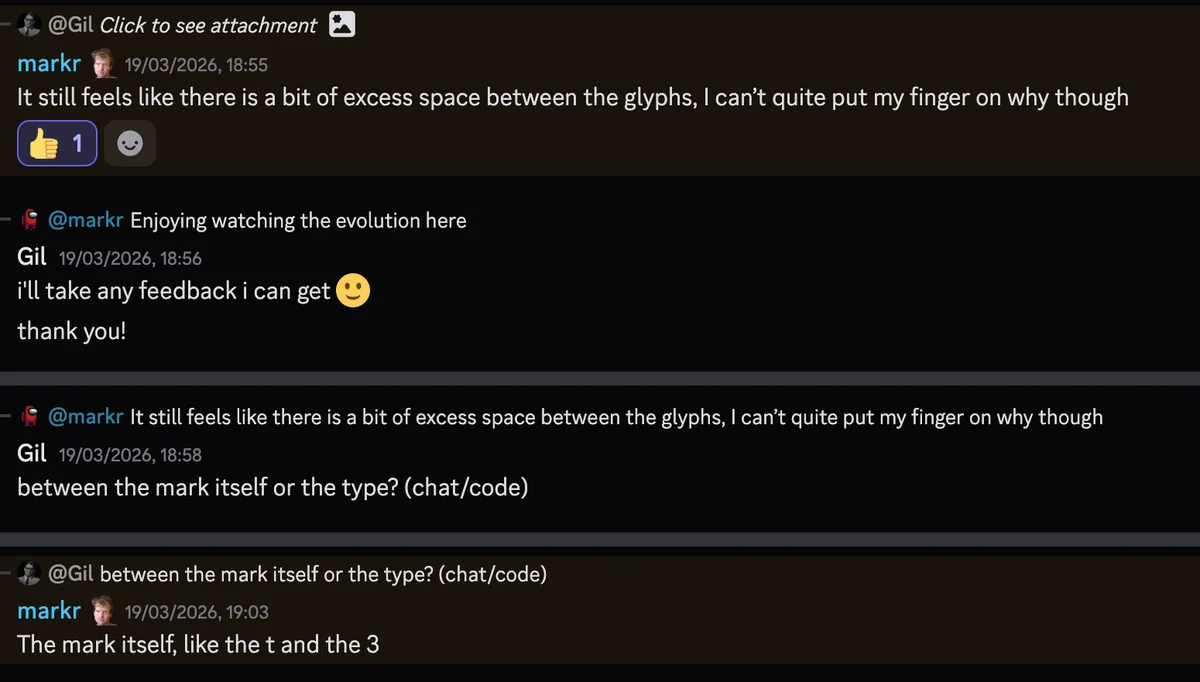
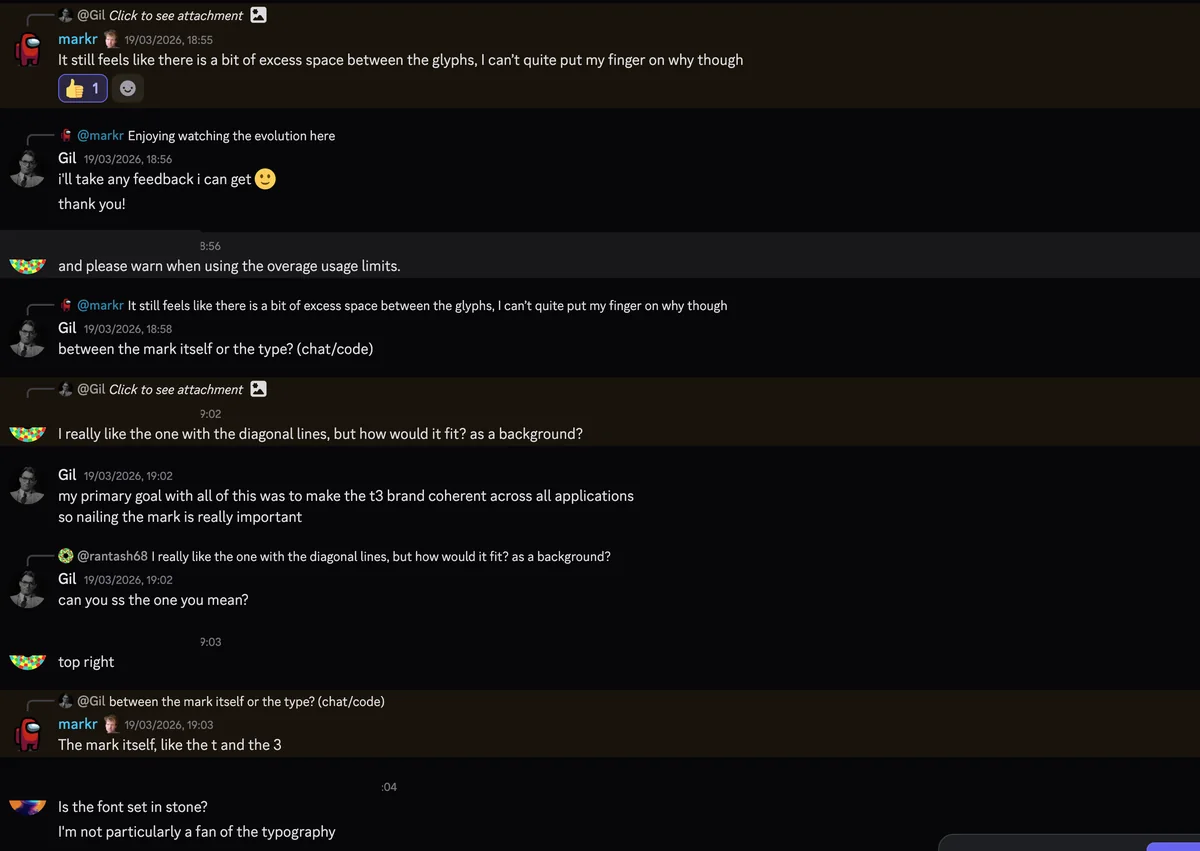
Chronicle T3 Discord feedback

Changed region(s): [[0.0, 0.2771, 1.0, 0.9853], [0.0, 0.0, 0.9558, 0.2463], [0.7708, 0.9545, 1.0, 1.0]]

diff --git a/all/index.html b/all/index.html
@@ -2191,7 +2191,7 @@ html.homepage-scroll-locked body .layout {
                                 <h1 class="case-title">A logomark system for T3</h1>
                             </header>
                                 <div class="case-copy">
-                                    <p>T3 ships more than one product, so the mark had to hold as <a class="external-link" href="https://t3.chat/" target="_blank" rel="noopener noreferrer"><code>T3.chat</code></a>, as <a class="external-link" href="https://t3.codes/" target="_blank" rel="noopener noreferrer"><code>T3.code</code></a>, and on its own in a favicon or an app grid. Nobody commissioned it. I drew it across several months and posted the versions as they came, first in the T3 Discord and then as a <a class="external-link" href="https://x.com/gilrdb/status/2080990301208952994" target="_blank" rel="noopener noreferrer">thread on X</a>. The community, <a class="external-link" href="https://x.com/r_marked" target="_blank" rel="noopener noreferrer">@r_marked</a>, and <a class="external-link" href="https://x.com/theo" target="_blank" rel="noopener noreferrer">@theo</a> told me which ones were working.</p>
+                                    <p>T3 ships more than one product, so the mark had to hold as <a class="external-link" href="https://t3.chat/" target="_blank" rel="noopener noreferrer"><code>T3.chat</code></a>, as <a class="external-link" href="https://t3.codes/" target="_blank" rel="noopener noreferrer"><code>T3.code</code></a>, and on its own in a favicon or an app grid. Nobody commissioned it. I drew it between March and May 2026 and posted the versions as they came, first in the T3 Discord and then as a <a class="external-link" href="https://x.com/gilrdb/status/2080990301208952994" target="_blank" rel="noopener noreferrer">thread on X</a>. The community, <a class="external-link" href="https://x.com/r_marked" target="_blank" rel="noopener noreferrer">@r_marked</a>, and <a class="external-link" href="https://x.com/theo" target="_blank" rel="noopener noreferrer">@theo</a> told me which ones were working.</p>
                                 </div>
                             <div class="case-media">
                             <figure>
@@ -2234,21 +2234,48 @@ html.homepage-scroll-locked body .layout {
                             </figure>
                             </div>
                                 <div class="case-copy">
-                                    <p>markr came back with the note that set up the next two weeks: &quot;It still feels like there is a bit of excess space between the glyphs, I can't quite put my finger on why though.&quot; I asked whether he meant the mark or the type. The mark, he said, the t and the 3.</p>
+                                    <p>markr came back with the note that set up the next two months: &quot;It still feels like there is a bit of excess space between the glyphs, I can't quite put my finger on why though.&quot; I asked whether he meant the mark or the type. The mark, he said, the t and the 3.</p>
                                 </div>
                             <div class="case-media">
                             <figure>
-                                <img alt="T3 Discord feedback on the spacing between the logomark glyphs" decoding="async" loading="lazy" height="682" sizes="(max-width: 768px) calc(100vw - 24px), (max-width: 1100px) calc(100vw - 336px), 760px" src="/images/optimized/gil-rodrigues-t3-feedback-spacing-720.webp" srcset="/images/optimized/gil-rodrigues-t3-feedback-spacing-480.webp 480w, /images/optimized/gil-rodrigues-t3-feedback-spacing-720.webp 720w, /images/optimized/gil-rodrigues-t3-feedback-spacing-960.webp 960w, /images/optimized/gil-rodrigues-t3-feedback-spacing-1200.webp 1200w" width="1200"/>
+                                <img alt="T3 Discord feedback on the spacing between the logomark glyphs" decoding="async" loading="lazy" height="851" sizes="(max-width: 768px) calc(100vw - 24px), (max-width: 1100px) calc(100vw - 336px), 760px" src="/images/optimized/gil-rodrigues-t3-feedback-spacing-720.webp" srcset="/images/optimized/gil-rodrigues-t3-feedback-spacing-480.webp 480w, /images/optimized/gil-rodrigues-t3-feedback-spacing-720.webp 720w, /images/optimized/gil-rodrigues-t3-feedback-spacing-960.webp 960w, /images/optimized/gil-rodrigues-t3-feedback-spacing-1200.webp 1200w" width="1200"/>
                                 <figcaption class="case-caption">Feedback on the spacing between the glyphs</figcaption>
                             </figure>
                             </div>
                                 <div class="case-copy">
-                                    <p>By 31 March I was posting frames nine at a time. Carl read the fourth and the last as Ws, which is what happens when the crossbar shears too far. markr relayed that Theo had not liked the angles in the old logo, so the direction that fixed the spacing was reopening a different problem. &quot;Mixed feedback on lots of them makes me go into all kinds of directions,&quot; I wrote back. markr's reply was &quot;design by committee&quot;.</p>
+                                    <p>A week later I brought the mark back heavier, on a brighter palette. markr: &quot;Feels very heavy now, which compared to the rest of the products, feels out of place. I do like the idea with the sloping 3 though to get rid of that bug dead space.&quot; Someone else said it reminded them of a racing car logo.</p>
                                 </div>
                             <div class="case-media">
                             <figure>
-                                <img alt="Nine T3 logo frames and the Discord replies they drew" decoding="async" loading="lazy" height="723" sizes="(max-width: 768px) calc(100vw - 24px), (max-width: 1100px) calc(100vw - 336px), 760px" src="/images/optimized/gil-rodrigues-t3-feedback-frames-720.webp" srcset="/images/optimized/gil-rodrigues-t3-feedback-frames-480.webp 480w, /images/optimized/gil-rodrigues-t3-feedback-frames-720.webp 720w, /images/optimized/gil-rodrigues-t3-feedback-frames-960.webp 960w, /images/optimized/gil-rodrigues-t3-feedback-frames-1200.webp 1200w" width="1200"/>
+                                <img alt="Repainted T3 board with feedback on its weight and direction" decoding="async" loading="lazy" height="815" sizes="(max-width: 768px) calc(100vw - 24px), (max-width: 1100px) calc(100vw - 336px), 760px" src="/images/optimized/gil-rodrigues-t3-feedback-repainted-720.webp" srcset="/images/optimized/gil-rodrigues-t3-feedback-repainted-480.webp 480w, /images/optimized/gil-rodrigues-t3-feedback-repainted-720.webp 720w, /images/optimized/gil-rodrigues-t3-feedback-repainted-960.webp 960w, /images/optimized/gil-rodrigues-t3-feedback-repainted-1200.webp 1200w" width="1200"/>
+                                <figcaption class="case-caption">The repainted board</figcaption>
+                            </figure>
+                            </div>
+                                <div class="case-copy">
+                                    <p>I posted a thinner version the same evening and asked whether that killed the racing car. It moved the problem instead of solving it: pushing the 3 away reintroduced the gap, and not connecting the two made the mark look heavily unproportional. markr relayed what Theo had said about the iteration — not sold on the weights, or on the shape of the 3.</p>
+                                </div>
+                            <div class="case-media">
+                            <figure>
+                                <img alt="Thinner T3 mark test and feedback on the direction" decoding="async" loading="lazy" height="382" sizes="(max-width: 768px) calc(100vw - 24px), (max-width: 1100px) calc(100vw - 336px), 760px" src="/images/optimized/gil-rodrigues-t3-feedback-thinner-720.webp" srcset="/images/optimized/gil-rodrigues-t3-feedback-thinner-480.webp 480w, /images/optimized/gil-rodrigues-t3-feedback-thinner-720.webp 720w, /images/optimized/gil-rodrigues-t3-feedback-thinner-960.webp 960w, /images/optimized/gil-rodrigues-t3-feedback-thinner-1200.webp 1200w" width="1200"/>
+                                <figcaption class="case-caption">The thinner test and the reply</figcaption>
+                            </figure>
+                            </div>
+                                <div class="case-copy">
+                                    <p>By 31 March I was posting frames nine at a time. One reply read the fourth and the last as Ws, which is what happens when the crossbar shears too far. markr thought the direction was closer to right, since Theo had not liked the angles in the old logo, so the fix for one problem kept reopening another. &quot;Mixed feedback on lots of them makes me go into all kinds of directions,&quot; I wrote. markr: &quot;design by committee&quot;.</p>
+                                </div>
+                            <div class="case-media">
+                            <figure>
+                                <img alt="Nine T3 logo frames and the Discord replies they drew" decoding="async" loading="lazy" height="1127" sizes="(max-width: 768px) calc(100vw - 24px), (max-width: 1100px) calc(100vw - 336px), 760px" src="/images/optimized/gil-rodrigues-t3-feedback-frames-720.webp" srcset="/images/optimized/gil-rodrigues-t3-feedback-frames-480.webp 480w, /images/optimized/gil-rodrigues-t3-feedback-frames-720.webp 720w, /images/optimized/gil-rodrigues-t3-feedback-frames-960.webp 960w, /images/optimized/gil-rodrigues-t3-feedback-frames-1200.webp 1200w" width="1200"/>
                                 <figcaption class="case-caption">Nine frames and the replies they drew</figcaption>
+                            </figure>
+                            </div>
+                                <div class="case-copy">
+                                    <p>On 5 May the angled 3 got its verdict, secondhand as usual: &quot;I also like the angled 3, but Theo didn't 😭&quot;</p>
+                                </div>
+                            <div class="case-media">
+                            <figure>
+                                <img alt="Angled T3 3 and the verdict on its direction" decoding="async" loading="lazy" height="48" sizes="(max-width: 768px) calc(100vw - 24px), (max-width: 1100px) calc(100vw - 336px), 760px" src="/images/optimized/gil-rodrigues-t3-feedback-angled-3-720.webp" srcset="/images/optimized/gil-rodrigues-t3-feedback-angled-3-480.webp 480w, /images/optimized/gil-rodrigues-t3-feedback-angled-3-720.webp 720w, /images/optimized/gil-rodrigues-t3-feedback-angled-3-960.webp 960w, /images/optimized/gil-rodrigues-t3-feedback-angled-3-1200.webp 1200w" width="1200"/>
+                                <figcaption class="case-caption">The angled 3, and the verdict on it</figcaption>
                             </figure>
                             </div>
                                 <div class="case-copy">
@@ -2286,6 +2313,15 @@ html.homepage-scroll-locked body .layout {
                             <figure>
                                 <img alt="T3 logomark before and after comparison showing the final refined joint and terminals" decoding="async" height="2520" loading="lazy" sizes="(max-width: 768px) calc(100vw - 24px), (max-width: 1100px) calc(100vw - 336px), 760px" src="/images/optimized/gil-rodrigues-t3-before-after-720.webp" srcset="/images/optimized/gil-rodrigues-t3-before-after-480.webp 480w, /images/optimized/gil-rodrigues-t3-before-after-720.webp 720w, /images/optimized/gil-rodrigues-t3-before-after-960.webp 960w, /images/optimized/gil-rodrigues-t3-before-after-1280.webp 1280w, /images/optimized/gil-rodrigues-t3-before-after-1600.webp 1600w" width="3446"/>
                                 <figcaption class="case-caption">Before and after refinement</figcaption>
+                            </figure>
+                            </div>
+                                <div class="case-copy">
+                                    <p>I posted the two curves side by side on 13 May, expecting nobody to see it. markr: &quot;I feel insane but those changes made a difference to my perception....&quot;</p>
+                                </div>
+                            <div class="case-media">
+                            <figure>
+                                <img alt="T3 curve comparison and feedback on the smoothed version" decoding="async" loading="lazy" height="1266" sizes="(max-width: 768px) calc(100vw - 24px), (max-width: 1100px) calc(100vw - 336px), 760px" src="/images/optimized/gil-rodrigues-t3-feedback-curves-720.webp" srcset="/images/optimized/gil-rodrigues-t3-feedback-curves-480.webp 480w, /images/optimized/gil-rodrigues-t3-feedback-curves-720.webp 720w, /images/optimized/gil-rodrigues-t3-feedback-curves-960.webp 960w, /images/optimized/gil-rodrigues-t3-feedback-curves-1200.webp 1200w" width="1200"/>
+                                <figcaption class="case-caption">The pinched curve against the smoothed one</figcaption>
                             </figure>
                             </div>
                                 <div class="case-copy">

diff --git a/t3/index.html b/t3/index.html
@@ -1480,7 +1480,7 @@ html.homepage-scroll-locked body .layout {
                             <h1 class="case-title">A logomark system for T3</h1>
                         </header>
                             <div class="case-copy">
-                                <p>T3 ships more than one product, so the mark had to hold as <a class="external-link" href="https://t3.chat/" target="_blank" rel="noopener noreferrer"><code>T3.chat</code></a>, as <a class="external-link" href="https://t3.codes/" target="_blank" rel="noopener noreferrer"><code>T3.code</code></a>, and on its own in a favicon or an app grid. Nobody commissioned it. I drew it across several months and posted the versions as they came, first in the T3 Discord and then as a <a class="external-link" href="https://x.com/gilrdb/status/2080990301208952994" target="_blank" rel="noopener noreferrer">thread on X</a>. The community, <a class="external-link" href="https://x.com/r_marked" target="_blank" rel="noopener noreferrer">@r_marked</a>, and <a class="external-link" href="https://x.com/theo" target="_blank" rel="noopener noreferrer">@theo</a> told me which ones were working.</p>
+                                <p>T3 ships more than one product, so the mark had to hold as <a class="external-link" href="https://t3.chat/" target="_blank" rel="noopener noreferrer"><code>T3.chat</code></a>, as <a class="external-link" href="https://t3.codes/" target="_blank" rel="noopener noreferrer"><code>T3.code</code></a>, and on its own in a favicon or an app grid. Nobody commissioned it. I drew it between March and May 2026 and posted the versions as they came, first in the T3 Discord and then as a <a class="external-link" href="https://x.com/gilrdb/status/2080990301208952994" target="_blank" rel="noopener noreferrer">thread on X</a>. The community, <a class="external-link" href="https://x.com/r_marked" target="_blank" rel="noopener noreferrer">@r_marked</a>, and <a class="external-link" href="https://x.com/theo" target="_blank" rel="noopener noreferrer">@theo</a> told me which ones were working.</p>
                             </div>
                         <div class="case-media">
                         <figure>
@@ -1523,21 +1523,48 @@ html.homepage-scroll-locked body .layout {
                         </figure>
                         </div>
                             <div class="case-copy">
-                                <p>markr came back with the note that set up the next two weeks: &quot;It still feels like there is a bit of excess space between the glyphs, I can't quite put my finger on why though.&quot; I asked whether he meant the mark or the type. The mark, he said, the t and the 3.</p>
+                                <p>markr came back with the note that set up the next two months: &quot;It still feels like there is a bit of excess space between the glyphs, I can't quite put my finger on why though.&quot; I asked whether he meant the mark or the type. The mark, he said, the t and the 3.</p>
                             </div>
                         <div class="case-media">
                         <figure>
-                            <img alt="T3 Discord feedback on the spacing between the logomark glyphs" decoding="async" loading="lazy" height="682" sizes="(max-width: 768px) calc(100vw - 24px), (max-width: 1100px) calc(100vw - 336px), 760px" src="/images/optimized/gil-rodrigues-t3-feedback-spacing-720.webp" srcset="/images/optimized/gil-rodrigues-t3-feedback-spacing-480.webp 480w, /images/optimized/gil-rodrigues-t3-feedback-spacing-720.webp 720w, /images/optimized/gil-rodrigues-t3-feedback-spacing-960.webp 960w, /images/optimized/gil-rodrigues-t3-feedback-spacing-1200.webp 1200w" width="1200"/>
+                            <img alt="T3 Discord feedback on the spacing between the logomark glyphs" decoding="async" loading="lazy" height="851" sizes="(max-width: 768px) calc(100vw - 24px), (max-width: 1100px) calc(100vw - 336px), 760px" src="/images/optimized/gil-rodrigues-t3-feedback-spacing-720.webp" srcset="/images/optimized/gil-rodrigues-t3-feedback-spacing-480.webp 480w, /images/optimized/gil-rodrigues-t3-feedback-spacing-720.webp 720w, /images/optimized/gil-rodrigues-t3-feedback-spacing-960.webp 960w, /images/optimized/gil-rodrigues-t3-feedback-spacing-1200.webp 1200w" width="1200"/>
                             <figcaption class="case-caption">Feedback on the spacing between the glyphs</figcaption>
                         </figure>
                         </div>
                             <div class="case-copy">
-                                <p>By 31 March I was posting frames nine at a time. Carl read the fourth and the last as Ws, which is what happens when the crossbar shears too far. markr relayed that Theo had not liked the angles in the old logo, so the direction that fixed the spacing was reopening a different problem. &quot;Mixed feedback on lots of them makes me go into all kinds of directions,&quot; I wrote back. markr's reply was &quot;design by committee&quot;.</p>
+                                <p>A week later I brought the mark back heavier, on a brighter palette. markr: &quot;Feels very heavy now, which compared to the rest of the products, feels out of place. I do like the idea with the sloping 3 though to get rid of that bug dead space.&quot; Someone else said it reminded them of a racing car logo.</p>
                             </div>
                         <div class="case-media">
                         <figure>
-                            <img alt="Nine T3 logo frames and the Discord replies they drew" decoding="async" loading="lazy" height="723" sizes="(max-width: 768px) calc(100vw - 24px), (max-width: 1100px) calc(100vw - 336px), 760px" src="/images/optimized/gil-rodrigues-t3-feedback-frames-720.webp" srcset="/images/optimized/gil-rodrigues-t3-feedback-frames-480.webp 480w, /images/optimized/gil-rodrigues-t3-feedback-frames-720.webp 720w, /images/optimized/gil-rodrigues-t3-feedback-frames-960.webp 960w, /images/optimized/gil-rodrigues-t3-feedback-frames-1200.webp 1200w" width="1200"/>
+                            <img alt="Repainted T3 board with feedback on its weight and direction" decoding="async" loading="lazy" height="815" sizes="(max-width: 768px) calc(100vw - 24px), (max-width: 1100px) calc(100vw - 336px), 760px" src="/images/optimized/gil-rodrigues-t3-feedback-repainted-720.webp" srcset="/images/optimized/gil-rodrigues-t3-feedback-repainted-480.webp 480w, /images/optimized/gil-rodrigues-t3-feedback-repainted-720.webp 720w, /images/optimized/gil-rodrigues-t3-feedback-repainted-960.webp 960w, /images/optimized/gil-rodrigues-t3-feedback-repainted-1200.webp 1200w" width="1200"/>
+                            <figcaption class="case-caption">The repainted board</figcaption>
+                        </figure>
+                        </div>
+                            <div class="case-copy">
+                                <p>I posted a thinner version the same evening and asked whether that killed the racing car. It moved the problem instead of solving it: pushing the 3 away reintroduced the gap, and not connecting the two made the mark look heavily unproportional. markr relayed what Theo had said about the iteration — not sold on the weights, or on the shape of the 3.</p>
+                            </div>
+                        <div class="case-media">
+                        <figure>
+                            <img alt="Thinner T3 mark test and feedback on the direction" decoding="async" loading="lazy" height="382" sizes="(max-width: 768px) calc(100vw - 24px), (max-width: 1100px) calc(100vw - 336px), 760px" src="/images/optimized/gil-rodrigues-t3-feedback-thinner-720.webp" srcset="/images/optimized/gil-rodrigues-t3-feedback-thinner-480.webp 480w, /images/optimized/gil-rodrigues-t3-feedback-thinner-720.webp 720w, /images/optimized/gil-rodrigues-t3-feedback-thinner-960.webp 960w, /images/optimized/gil-rodrigues-t3-feedback-thinner-1200.webp 1200w" width="1200"/>
+                            <figcaption class="case-caption">The thinner test and the reply</figcaption>
+                        </figure>
+                        </div>
+                            <div class="case-copy">
+                                <p>By 31 March I was posting frames nine at a time. One reply read the fourth and the last as Ws, which is what happens when the crossbar shears too far. markr thought the direction was closer to right, since Theo had not liked the angles in the old logo, so the fix for one problem kept reopening another. &quot;Mixed feedback on lots of them makes me go into all kinds of directions,&quot; I wrote. markr: &quot;design by committee&quot;.</p>
+                            </div>
+                        <div class="case-media">
+                        <figure>
+                            <img alt="Nine T3 logo frames and the Discord replies they drew" decoding="async" loading="lazy" height="1127" sizes="(max-width: 768px) calc(100vw - 24px), (max-width: 1100px) calc(100vw - 336px), 760px" src="/images/optimized/gil-rodrigues-t3-feedback-frames-720.webp" srcset="/images/optimized/gil-rodrigues-t3-feedback-frames-480.webp 480w, /images/optimized/gil-rodrigues-t3-feedback-frames-720.webp 720w, /images/optimized/gil-rodrigues-t3-feedback-frames-960.webp 960w, /images/optimized/gil-rodrigues-t3-feedback-frames-1200.webp 1200w" width="1200"/>
                             <figcaption class="case-caption">Nine frames and the replies they drew</figcaption>
+                        </figure>
+                        </div>
+                            <div class="case-copy">
+                                <p>On 5 May the angled 3 got its verdict, secondhand as usual: &quot;I also like the angled 3, but Theo didn't 😭&quot;</p>
+                            </div>
+                        <div class="case-media">
+                        <figure>
+                            <img alt="Angled T3 3 and the verdict on its direction" decoding="async" loading="lazy" height="48" sizes="(max-width: 768px) calc(100vw - 24px), (max-width: 1100px) calc(100vw - 336px), 760px" src="/images/optimized/gil-rodrigues-t3-feedback-angled-3-720.webp" srcset="/images/optimized/gil-rodrigues-t3-feedback-angled-3-480.webp 480w, /images/optimized/gil-rodrigues-t3-feedback-angled-3-720.webp 720w, /images/optimized/gil-rodrigues-t3-feedback-angled-3-960.webp 960w, /images/optimized/gil-rodrigues-t3-feedback-angled-3-1200.webp 1200w" width="1200"/>
+                            <figcaption class="case-caption">The angled 3, and the verdict on it</figcaption>
                         </figure>
                         </div>
                             <div class="case-copy">
@@ -1575,6 +1602,15 @@ html.homepage-scroll-locked body .layout {
                         <figure>
                             <img alt="T3 logomark before and after comparison showing the final refined joint and terminals" decoding="async" height="2520" loading="lazy" sizes="(max-width: 768px) calc(100vw - 24px), (max-width: 1100px) calc(100vw - 336px), 760px" src="/images/optimized/gil-rodrigues-t3-before-after-720.webp" srcset="/images/optimized/gil-rodrigues-t3-before-after-480.webp 480w, /images/optimized/gil-rodrigues-t3-before-after-720.webp 720w, /images/optimized/gil-rodrigues-t3-before-after-960.webp 960w, /images/optimized/gil-rodrigues-t3-before-after-1280.webp 1280w, /images/optimized/gil-rodrigues-t3-before-after-1600.webp 1600w" width="3446"/>
                             <figcaption class="case-caption">Before and after refinement</figcaption>
+                        </figure>
+                        </div>
+                            <div class="case-copy">
+                                <p>I posted the two curves side by side on 13 May, expecting nobody to see it. markr: &quot;I feel insane but those changes made a difference to my perception....&quot;</p>
+                            </div>
+                        <div class="case-media">
+                        <figure>
+                            <img alt="T3 curve comparison and feedback on the smoothed version" decoding="async" loading="lazy" height="1266" sizes="(max-width: 768px) calc(100vw - 24px), (max-width: 1100px) calc(100vw - 336px), 760px" src="/images/optimized/gil-rodrigues-t3-feedback-curves-720.webp" srcset="/images/optimized/gil-rodrigues-t3-feedback-curves-480.webp 480w, /images/optimized/gil-rodrigues-t3-feedback-curves-720.webp 720w, /images/optimized/gil-rodrigues-t3-feedback-curves-960.webp 960w, /images/optimized/gil-rodrigues-t3-feedback-curves-1200.webp 1200w" width="1200"/>
+                            <figcaption class="case-caption">The pinched curve against the smoothed one</figcaption>
                         </figure>
                         </div>
                             <div class="case-copy">

diff --git a/src/case-media/t3/t3-feedback-spacing.html b/src/case-media/t3/t3-feedback-spacing.html
@@ -1,1 +1,1 @@
-<img alt="T3 Discord feedback on the spacing between the logomark glyphs" decoding="async" loading="lazy" height="682" sizes="(max-width: 768px) calc(100vw - 24px), (max-width: 1100px) calc(100vw - 336px), 760px" src="/images/optimized/gil-rodrigues-t3-feedback-spacing-720.webp" srcset="/images/optimized/gil-rodrigues-t3-feedback-spacing-480.webp 480w, /images/optimized/gil-rodrigues-t3-feedback-spacing-720.webp 720w, /images/optimized/gil-rodrigues-t3-feedback-spacing-960.webp 960w, /images/optimized/gil-rodrigues-t3-feedback-spacing-1200.webp 1200w" width="1200"/>
+<img alt="T3 Discord feedback on the spacing between the logomark glyphs" decoding="async" loading="lazy" height="851" sizes="(max-width: 768px) calc(100vw - 24px), (max-width: 1100px) calc(100vw - 336px), 760px" src="/images/optimized/gil-rodrigues-t3-feedback-spacing-720.webp" srcset="/images/optimized/gil-rodrigues-t3-feedback-spacing-480.webp 480w, /images/optimized/gil-rodrigues-t3-feedback-spacing-720.webp 720w, /images/optimized/gil-rodrigues-t3-feedback-spacing-960.webp 960w, /images/optimized/gil-rodrigues-t3-feedback-spacing-1200.webp 1200w" width="1200"/>

diff --git a/src/case-media/t3/t3-feedback-frames.html b/src/case-media/t3/t3-feedback-frames.html
@@ -1,1 +1,1 @@
-<img alt="Nine T3 logo frames and the Discord replies they drew" decoding="async" loading="lazy" height="723" sizes="(max-width: 768px) calc(100vw - 24px), (max-width: 1100px) calc(100vw - 336px), 760px" src="/images/optimized/gil-rodrigues-t3-feedback-frames-720.webp" srcset="/images/optimized/gil-rodrigues-t3-feedback-frames-480.webp 480w, /images/optimized/gil-rodrigues-t3-feedback-frames-720.webp 720w, /images/optimized/gil-rodrigues-t3-feedback-frames-960.webp 960w, /images/optimized/gil-rodrigues-t3-feedback-frames-1200.webp 1200w" width="1200"/>
+<img alt="Nine T3 logo frames and the Discord replies they drew" decoding="async" loading="lazy" height="1127" sizes="(max-width: 768px) calc(100vw - 24px), (max-width: 1100px) calc(100vw - 336px), 760px" src="/images/optimized/gil-rodrigues-t3-feedback-frames-720.webp" srcset="/images/optimized/gil-rodrigues-t3-feedback-frames-480.webp 480w, /images/optimized/gil-rodrigues-t3-feedback-frames-720.webp 720w, /images/optimized/gil-rodrigues-t3-feedback-frames-960.webp 960w, /images/optimized/gil-rodrigues-t3-feedback-frames-1200.webp 1200w" width="1200"/>

diff --git a/src/case-media/t3/t3-feedback-repainted.html b/src/case-media/t3/t3-feedback-repainted.html
@@ -1,0 +1,1 @@
+<img alt="Repainted T3 board with feedback on its weight and direction" decoding="async" loading="lazy" height="815" sizes="(max-width: 768px) calc(100vw - 24px), (max-width: 1100px) calc(100vw - 336px), 760px" src="/images/optimized/gil-rodrigues-t3-feedback-repainted-720.webp" srcset="/images/optimized/gil-rodrigues-t3-feedback-repainted-480.webp 480w, /images/optimized/gil-rodrigues-t3-feedback-repainted-720.webp 720w, /images/optimized/gil-rodrigues-t3-feedback-repainted-960.webp 960w, /images/optimized/gil-rodrigues-t3-feedback-repainted-1200.webp 1200w" width="1200"/>

diff --git a/src/case-media/t3/t3-feedback-curves.html b/src/case-media/t3/t3-feedback-curves.html
@@ -1,0 +1,1 @@
+<img alt="T3 curve comparison and feedback on the smoothed version" decoding="async" loading="lazy" height="1266" sizes="(max-width: 768px) calc(100vw - 24px), (max-width: 1100px) calc(100vw - 336px), 760px" src="/images/optimized/gil-rodrigues-t3-feedback-curves-720.webp" srcset="/images/optimized/gil-rodrigues-t3-feedback-curves-480.webp 480w, /images/optimized/gil-rodrigues-t3-feedback-curves-720.webp 720w, /images/optimized/gil-rodrigues-t3-feedback-curves-960.webp 960w, /images/optimized/gil-rodrigues-t3-feedback-curves-1200.webp 1200w" width="1200"/>

diff --git a/src/case-media/t3/t3-feedback-thinner.html b/src/case-media/t3/t3-feedback-thinner.html
@@ -1,0 +1,1 @@
+<img alt="Thinner T3 mark test and feedback on the direction" decoding="async" loading="lazy" height="382" sizes="(max-width: 768px) calc(100vw - 24px), (max-width: 1100px) calc(100vw - 336px), 760px" src="/images/optimized/gil-rodrigues-t3-feedback-thinner-720.webp" srcset="/images/optimized/gil-rodrigues-t3-feedback-thinner-480.webp 480w, /images/optimized/gil-rodrigues-t3-feedback-thinner-720.webp 720w, /images/optimized/gil-rodrigues-t3-feedback-thinner-960.webp 960w, /images/optimized/gil-rodrigues-t3-feedback-thinner-1200.webp 1200w" width="1200"/>

diff --git a/src/case-media/t3/t3-feedback-angled-3.html b/src/case-media/t3/t3-feedback-angled-3.html
@@ -1,0 +1,1 @@
+<img alt="Angled T3 3 and the verdict on its direction" decoding="async" loading="lazy" height="48" sizes="(max-width: 768px) calc(100vw - 24px), (max-width: 1100px) calc(100vw - 336px), 760px" src="/images/optimized/gil-rodrigues-t3-feedback-angled-3-720.webp" srcset="/images/optimized/gil-rodrigues-t3-feedback-angled-3-480.webp 480w, /images/optimized/gil-rodrigues-t3-feedback-angled-3-720.webp 720w, /images/optimized/gil-rodrigues-t3-feedback-angled-3-960.webp 960w, /images/optimized/gil-rodrigues-t3-feedback-angled-3-1200.webp 1200w" width="1200"/>

diff --git a/content/t3.md b/content/t3.md
@@ -1,6 +1,6 @@
 # A logomark system for T3
 
-T3 ships more than one product, so the mark had to hold as [`T3.chat`](https://t3.chat/), as [`T3.code`](https://t3.codes/), and on its own in a favicon or an app grid. Nobody commissioned it. I drew it across several months and posted the versions as they came, first in the T3 Discord and then as a [thread on X](https://x.com/gilrdb/status/2080990301208952994). The community, [@r_marked](https://x.com/r_marked), and [@theo](https://x.com/theo) told me which ones were working.
+T3 ships more than one product, so the mark had to hold as [`T3.chat`](https://t3.chat/), as [`T3.code`](https://t3.codes/), and on its own in a favicon or an app grid. Nobody commissioned it. I drew it between March and May 2026 and posted the versions as they came, first in the T3 Discord and then as a [thread on X](https://x.com/gilrdb/status/2080990301208952994). The community, [@r_marked](https://x.com/r_marked), and [@theo](https://x.com/theo) told me which ones were working.
 
 ![The T3 logomark](media:t3-mark)
 
@@ -23,13 +23,25 @@ On 19 March 2026 I posted the application board in the T3 Discord and asked for 
 
 ![The application board posted for feedback](media:t3-feedback-board)
 
-markr came back with the note that set up the next two weeks: "It still feels like there is a bit of excess space between the glyphs, I can't quite put my finger on why though." I asked whether he meant the mark or the type. The mark, he said, the t and the 3.
+markr came back with the note that set up the next two months: "It still feels like there is a bit of excess space between the glyphs, I can't quite put my finger on why though." I asked whether he meant the mark or the type. The mark, he said, the t and the 3.
 
 ![Feedback on the spacing between the glyphs](media:t3-feedback-spacing)
 
-By 31 March I was posting frames nine at a time. Carl read the fourth and the last as Ws, which is what happens when the crossbar shears too far. markr relayed that Theo had not liked the angles in the old logo, so the direction that fixed the spacing was reopening a different problem. "Mixed feedback on lots of them makes me go into all kinds of directions," I wrote back. markr's reply was "design by committee".
+A week later I brought the mark back heavier, on a brighter palette. markr: "Feels very heavy now, which compared to the rest of the products, feels out of place. I do like the idea with the sloping 3 though to get rid of that bug dead space." Someone else said it reminded them of a racing car logo.
+
+![The repainted board](media:t3-feedback-repainted)
+
+I posted a thinner version the same evening and asked whether that killed the racing car. It moved the problem instead of solving it: pushing the 3 away reintroduced the gap, and not connecting the two made the mark look heavily unproportional. markr relayed what Theo had said about the iteration — not sold on the weights, or on the shape of the 3.
+
+![The thinner test and the reply](media:t3-feedback-thinner)
+
+By 31 March I was posting frames nine at a time. One reply read the fourth and the last as Ws, which is what happens when the crossbar shears too far. markr thought the direction was closer to right, since Theo had not liked the angles in the old logo, so the fix for one problem kept reopening another. "Mixed feedback on lots of them makes me go into all kinds of directions," I wrote. markr: "design by committee".
 
 ![Nine frames and the replies they drew](media:t3-feedback-frames)
+
+On 5 May the angled 3 got its verdict, secondhand as usual: "I also like the angled 3, but Theo didn't 😭"
+
+![The angled 3, and the verdict on it](media:t3-feedback-angled-3)
 
 Some passes went angular and mechanical, with the bowl of the 3 squared off into facets.
 
@@ -48,6 +60,10 @@ Pink belongs to T3, but the mark had to survive without it. Every candidate was 
 The last pass is invisible at a glance. I thinned the joint between the crossbar and the bowl, pulled the bowl tighter, and squared the terminals so the mark keeps its rhythm at favicon size.
 
 ![Before and after refinement](media:t3-before-after)
+
+I posted the two curves side by side on 13 May, expecting nobody to see it. markr: "I feel insane but those changes made a difference to my perception...."
+
+![The pinched curve against the smoothed one](media:t3-feedback-curves)
 
 ### Scaling across products
 
